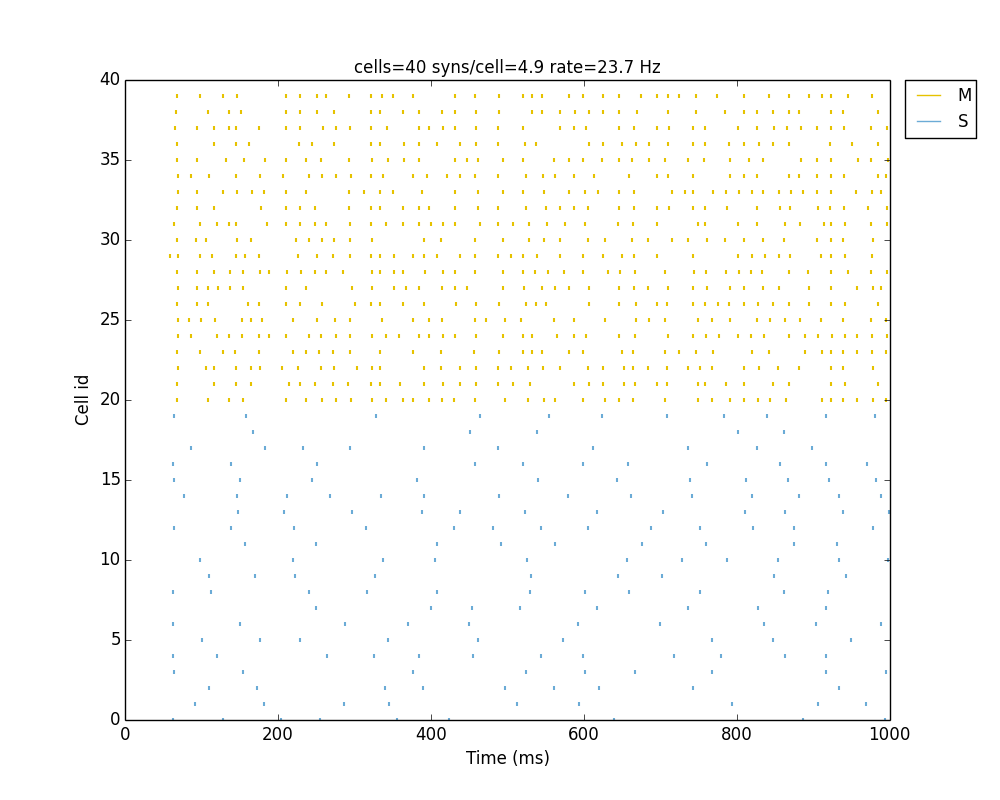
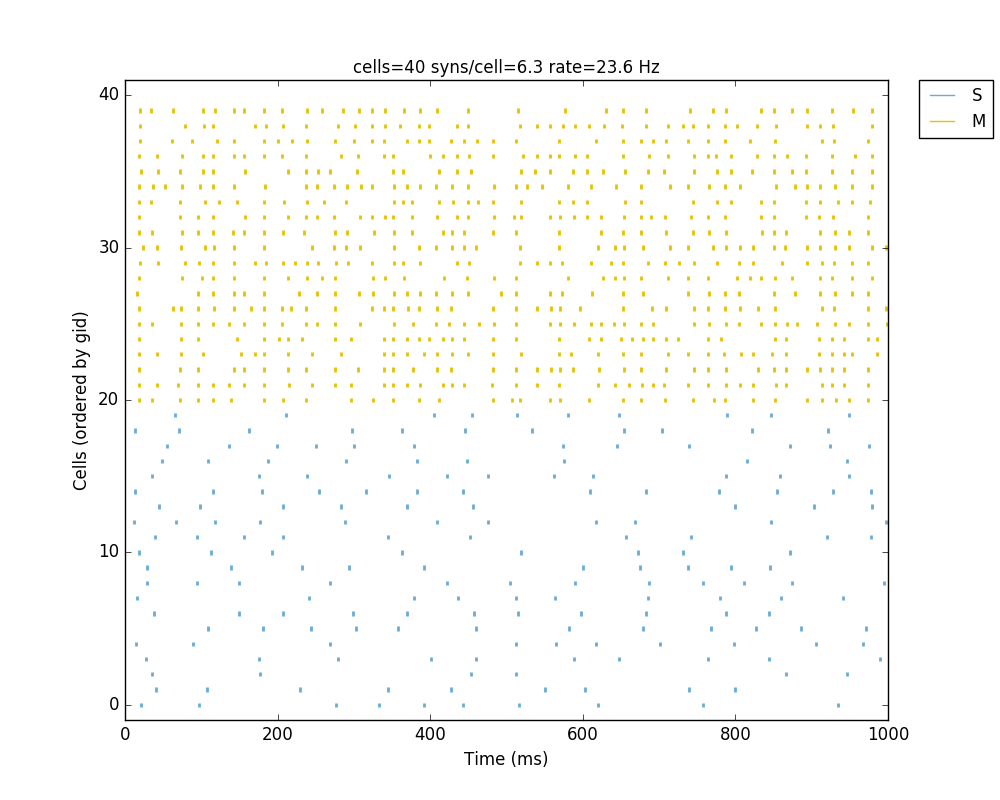
updated tut2 figs

diff --git a/doc/source/code/tut2.py b/doc/source/code/tut2.py
@@ -42,9 +42,9 @@ simConfig.recordStep = 0.1 			# Step size in ms to save data (eg. V traces, LFP,
 simConfig.filename = 'model_output'  # Set file output name
 simConfig.savePickle = False 		# Save params, network and sim output to pickle file
 
-simConfig.analysis['plotRaster'] = True 			# Plot a raster
-simConfig.analysis['plotTraces'] = {'include': [1]} 			# Plot recorded traces for this list of cells
-simConfig.analysis['plot2Dnet'] = True           # plot 2D visualization of cell positions and connections
+simConfig.analysis['plotRaster'] = {'saveFig': 'tut2_raster.png'} #True 			# Plot a raster
+simConfig.analysis['plotTraces'] = {'include': [1], 'saveFig': 'tut2_traces.png'} 			# Plot recorded traces for this list of cells
+simConfig.analysis['plot2Dnet'] = {'saveFig': 'tut2_net.png'} #True           # plot 2D visualization of cell positions and connections
 
 
 # Create network and run simulation

diff --git a/doc/source/tutorial.rst b/doc/source/tutorial.rst
@@ -172,8 +172,8 @@ Take a moment to examine the nested dictionary structure used to define the cell
 	netParams.cellParams['PYRrule'] = {		# cell rule label
 		'conds': {'cellType': 'PYR'},  	# properties will be applied to cells that match these conditions	
 		'secs': {'soma':					# sections 
-					{'geom': {'diam': 18.8, 'L': 18.8, 'Ra': 123.0},		# geometry 
-					'mechs': {'hh': {'gnabar': 0.12, 'gkbar': 0.036, 'gl': 0.003, 'el': -70}}}}}) 	# mechanisms
+			{'geom': {'diam': 18.8, 'L': 18.8, 'Ra': 123.0},		# geometry 
+			'mechs': {'hh': {'gnabar': 0.12, 'gkbar': 0.036, 'gl': 0.003, 'el': -70}}}}}) 	# mechanisms
 
 
 All methods are equally valid as long as the resulting structure looks like this (order of elements doesn't matter in dictionaries)::
@@ -181,7 +181,7 @@ All methods are equally valid as long as the resulting structure looks like this
 	>>> netParams.cellParams['PYRrule']
 	{'conds': {'cellType': 'PYR'},
  	'secs': {'soma': {'geom': {'L': 18.8, 'Ra': 123.0, 'diam': 18.8},
-    'mechs': {'hh': {'el': -70, 'gkbar': 0.036, 'gl': 0.003, 'gnabar': 0.12}}}}}
+    	'mechs': {'hh': {'el': -70, 'gkbar': 0.036, 'gl': 0.003, 'gnabar': 0.12}}}}}
 
 
 Synaptic mechanisms parameters
@@ -205,7 +205,7 @@ Stimulation
 Let's now add a some background stimulation to the cells using ``NetStim`` (NEURON's artificial spike generator). We will create a source of stimulation labeled ``bkg`` and we will specify we want a firing rate of ``100`` Hz and with a noise level of ``0.5``::
 
 	# Stimulation parameters
-	netParams.stimSourceParams['bkg'] = {'type': 'NetStim', 'rate': 10, 'noise': 0.5,}
+	netParams.stimSourceParams['bkg'] = {'type': 'NetStim', 'rate': 10, 'noise': 0.5}
 
 Next we will specify what cells will be targeted by this stimulation. In this case we want all pyramidal cells so we set the conditions to ``{'cellType': 'PYR'}``. Finally we want the NetStims to be connected with a weight of 0.01, a delay of 5 ms, and to target the ``exc`` synaptic mechanism::
 
@@ -299,6 +299,14 @@ You should get the raster plot and voltage trace figures shown below. Notice how
 	:width: 100%
 	:align: center
 
+.. image:: figs/tut2_net.png
+	:width: 30%
+
+.. image:: figs/tut2_raster.png
+	:width: 33%
+
+.. image:: figs/tut2_traces.png
+	:width: 33%
 
 Feel free to explore the effect of changing any of the model parameters, e.g. number of cells, background or S->M weights, cell geometry or biophysical properties, etc.
 
